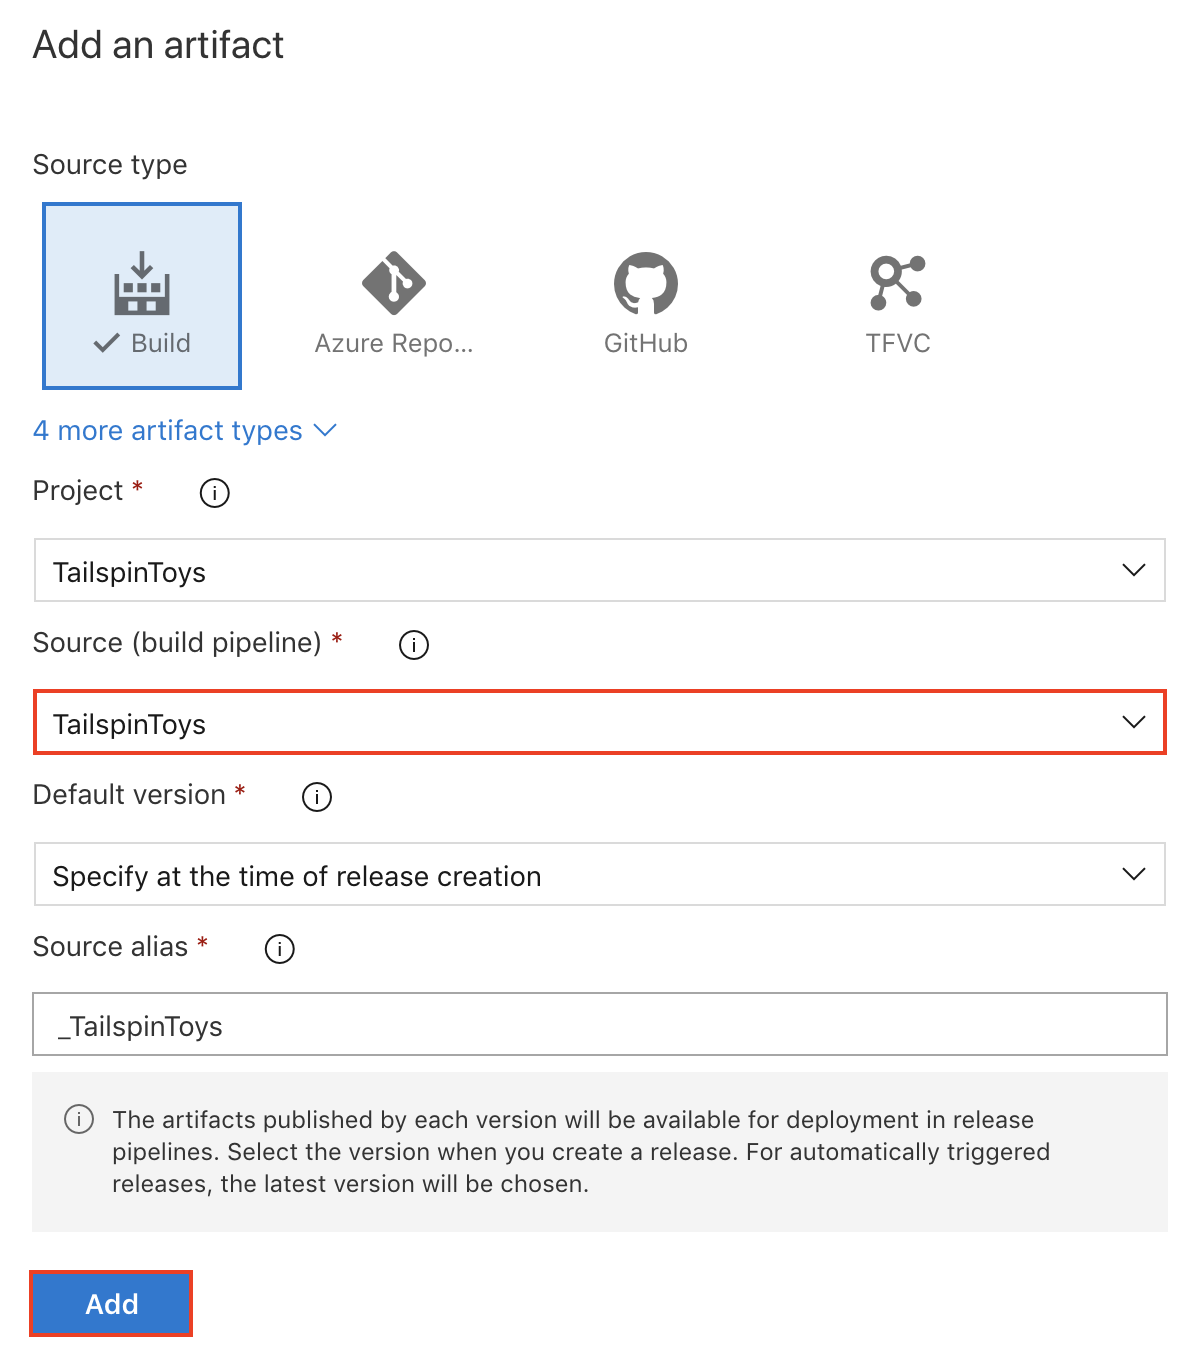
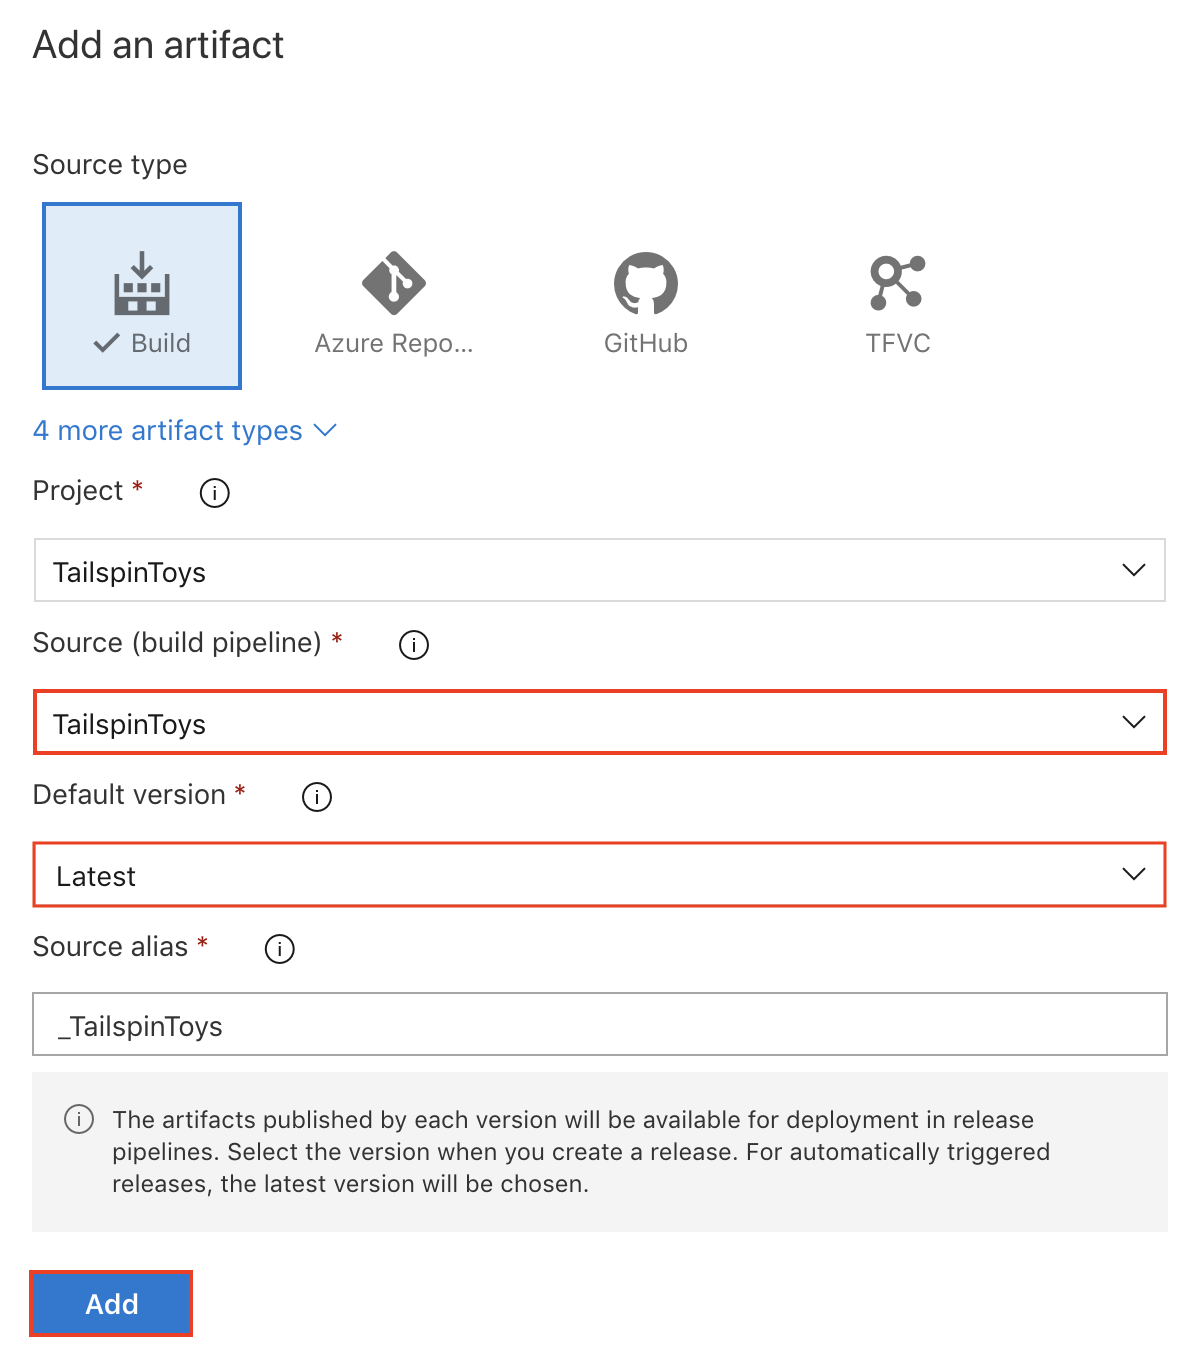
minor edits

Changed region(s): [[0.0, 0.614, 0.4633, 0.6754], [0.9574, 0.614, 0.9883, 0.6754]]

diff --git a/Hands-on lab/HOL step-by-step - Continuous delivery in Azure DevOps.md b/Hands-on lab/HOL step-by-step - Continuous delivery in Azure DevOps.md
@@ -84,8 +84,6 @@ Tailspin Toys has asked you to automate their development process in two specifi
 
     - Git command-line interface (CLI)
 
-    - TODO: more items
-
 ## Exercise 1: Create an Azure Resource Manager (ARM) template that can provision the web application, PostgreSQL database, and deployment slots in a single automated process
 
 Duration: 45 Minutes
@@ -206,8 +204,6 @@ Now that the template file has been uploaded, we'll deploy it several times to c
     ```
     
     > NOTE: This command is designed to prompt us to enter the resource group name and Azure region (location) we want to deploy our resources to. The script then takes our inputs and passes them as parameters to the Azure CLI command that calls our recently uploaded template file.
-
-    After submitting the command, it will prompt us to "Enter the Resource Group name".
 
     ![In the Azure Cloud Shell window, the command has been entered is we are prompted for the name of the resource group we want to deploy to.](images/stepbystep/media/image44.png "Azure Cloud Shell window")
 
@@ -554,7 +550,7 @@ In this exercise, you will create a build definition using, Azure Pipelines, tha
   
   ![A screen that shows a successfully completed build pipeline.](images/stepbystep/media/image77.png "Success") 
     
-13. Congratulations! You have just created your first build pipeline. In the next exercise, we will create a release pipeline that deploys your successful builds.
+  Congratulations! You have just created your first build pipeline. In the next exercise, we will create a release pipeline that deploys your successful builds.
 
 ## Exercise 4: Create Azure DevOps release pipeline
 
@@ -584,7 +580,7 @@ In this exercise, you will create a release pipeline in Azure DevOps that perfor
 
     ![+ Add and + Add an artifact are highlighted in this step.](images/stepbystep/media/image87.png "New release pipeline")
 
-6.  The Add an artifact panel will display several configurations for linking to an artifact. In the **Source (build pipeline)** dropdown list, select **TailspinToys**. The panel fields will adjust to show additional details based on your selection. The default values will produce a new release when future builds successfully complete. Click the **Add** button.
+6.  The Add an artifact panel will display several configurations for linking to an artifact. In the **Source (build pipeline)** dropdown list, select **TailspinToys**. In the **Default version** field, select **Latest**. The panel fields will adjust to show additional details based on your selection. The default values will produce a new release when future builds successfully complete. Click the **Add** button.
 
     ![On the Add an artifact screen, TailspinToys is highlighted in the Source (build pipeline) field, and the Add button is highlighted at the bottom.](images/stepbystep/media/image88.png "Add an artifact")
 
@@ -642,7 +638,7 @@ In this exercise, you will create a release pipeline in Azure DevOps that perfor
 
 ### Task 2: Add test and production environments to release pipeline
 
-1.  Move your mouse over the dev stage and a click the **Clone** button to create a copy of the tasks from the dev stage. We will use the same steps to deploy to test with a few configuration changes.
+1.  On the Pipeline tab, move your mouse over the dev stage and a click the **Clone** button to create a copy of the tasks from the dev stage. We will use the same steps to deploy to test with a few configuration changes.
 
     ![On the screen, the Clone button is highlighted.](images/stepbystep/media/image96.png "Copy the deployment tasks")
 
@@ -688,7 +684,7 @@ In this exercise, you will create a release pipeline in Azure DevOps that perfor
 
 15. Click Save, and confirm your changes by clicking "OK". Then, close the panel.
 
-16. Congratulations! You have completed the creation of a release pipeline with three stages.
+Congratulations! You have completed the creation of a release pipeline with three stages.
 
 ## Exercise 5: Trigger a build and release
 
@@ -824,6 +820,6 @@ Duration: 10 Minutes
 
 ### Task 1: Delete resources
 
-1.  Now since the hands-on lab is complete, go ahead and delete all of the Resource Groups that were created for this hands-on lab. You will no longer need those resources and it will be beneficial to clean up your Azure Subscription.
+1.  Now since the hands-on lab is complete, go ahead and delete the resource group you created for the Tailspin Toys deployments along with the Azure DevOps project that were created for this hands-on lab. You will no longer need those resources and it will be beneficial to clean up your Azure Subscription.
 
 These steps should be followed only *after* completing the hands-on lab.

diff --git a/Hands-on lab/Before the HOL.md b/Hands-on lab/Before the HOL.md
@@ -51,7 +51,7 @@ Microsoft and the trademarks listed at <https://www.microsoft.com/en-us/legal/in
 
 Duration: 10 minutes
 
-In this lab, you will create a developer environment and download the required files for this course if you do not already have one that meets the requirements.
+In this lab, you will configure a developer environment and download the required files for this course if you do not already have one that meets the requirements.
 
 ### Prerequisites
 
@@ -93,3 +93,8 @@ In this lab, you will create a developer environment and download the required f
     ```
 
 4. When unzipped, there will be two new folders named **arm** and **tailspintoysweb**. The workshop will refer to these folders throughout the exercises.
+
+>NOTE: If you prefer to use the Azure Cloud Shell to complete this lab, you can load the integrated code editor at any time with the following command:
+```
+code
+```
